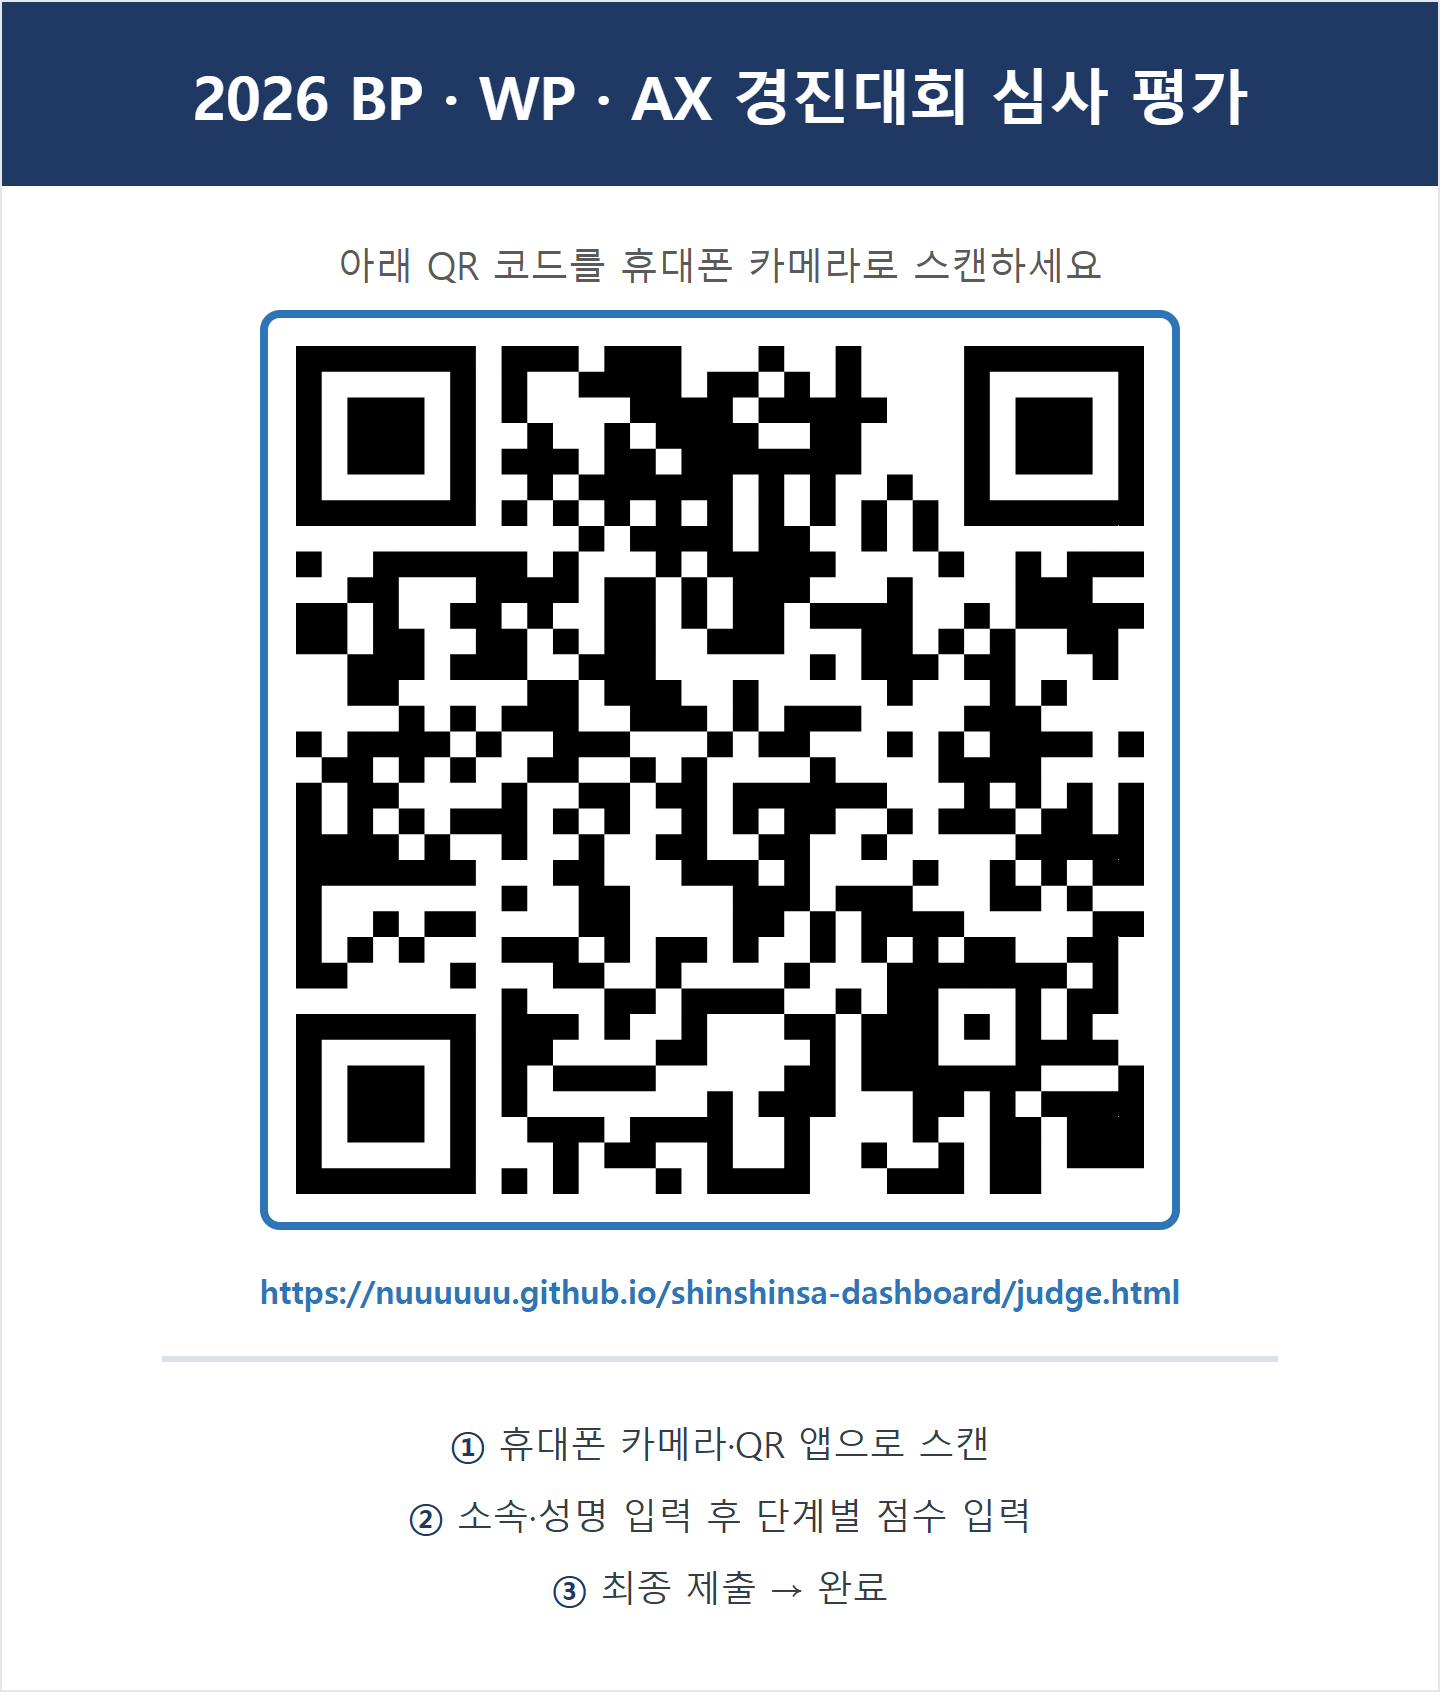
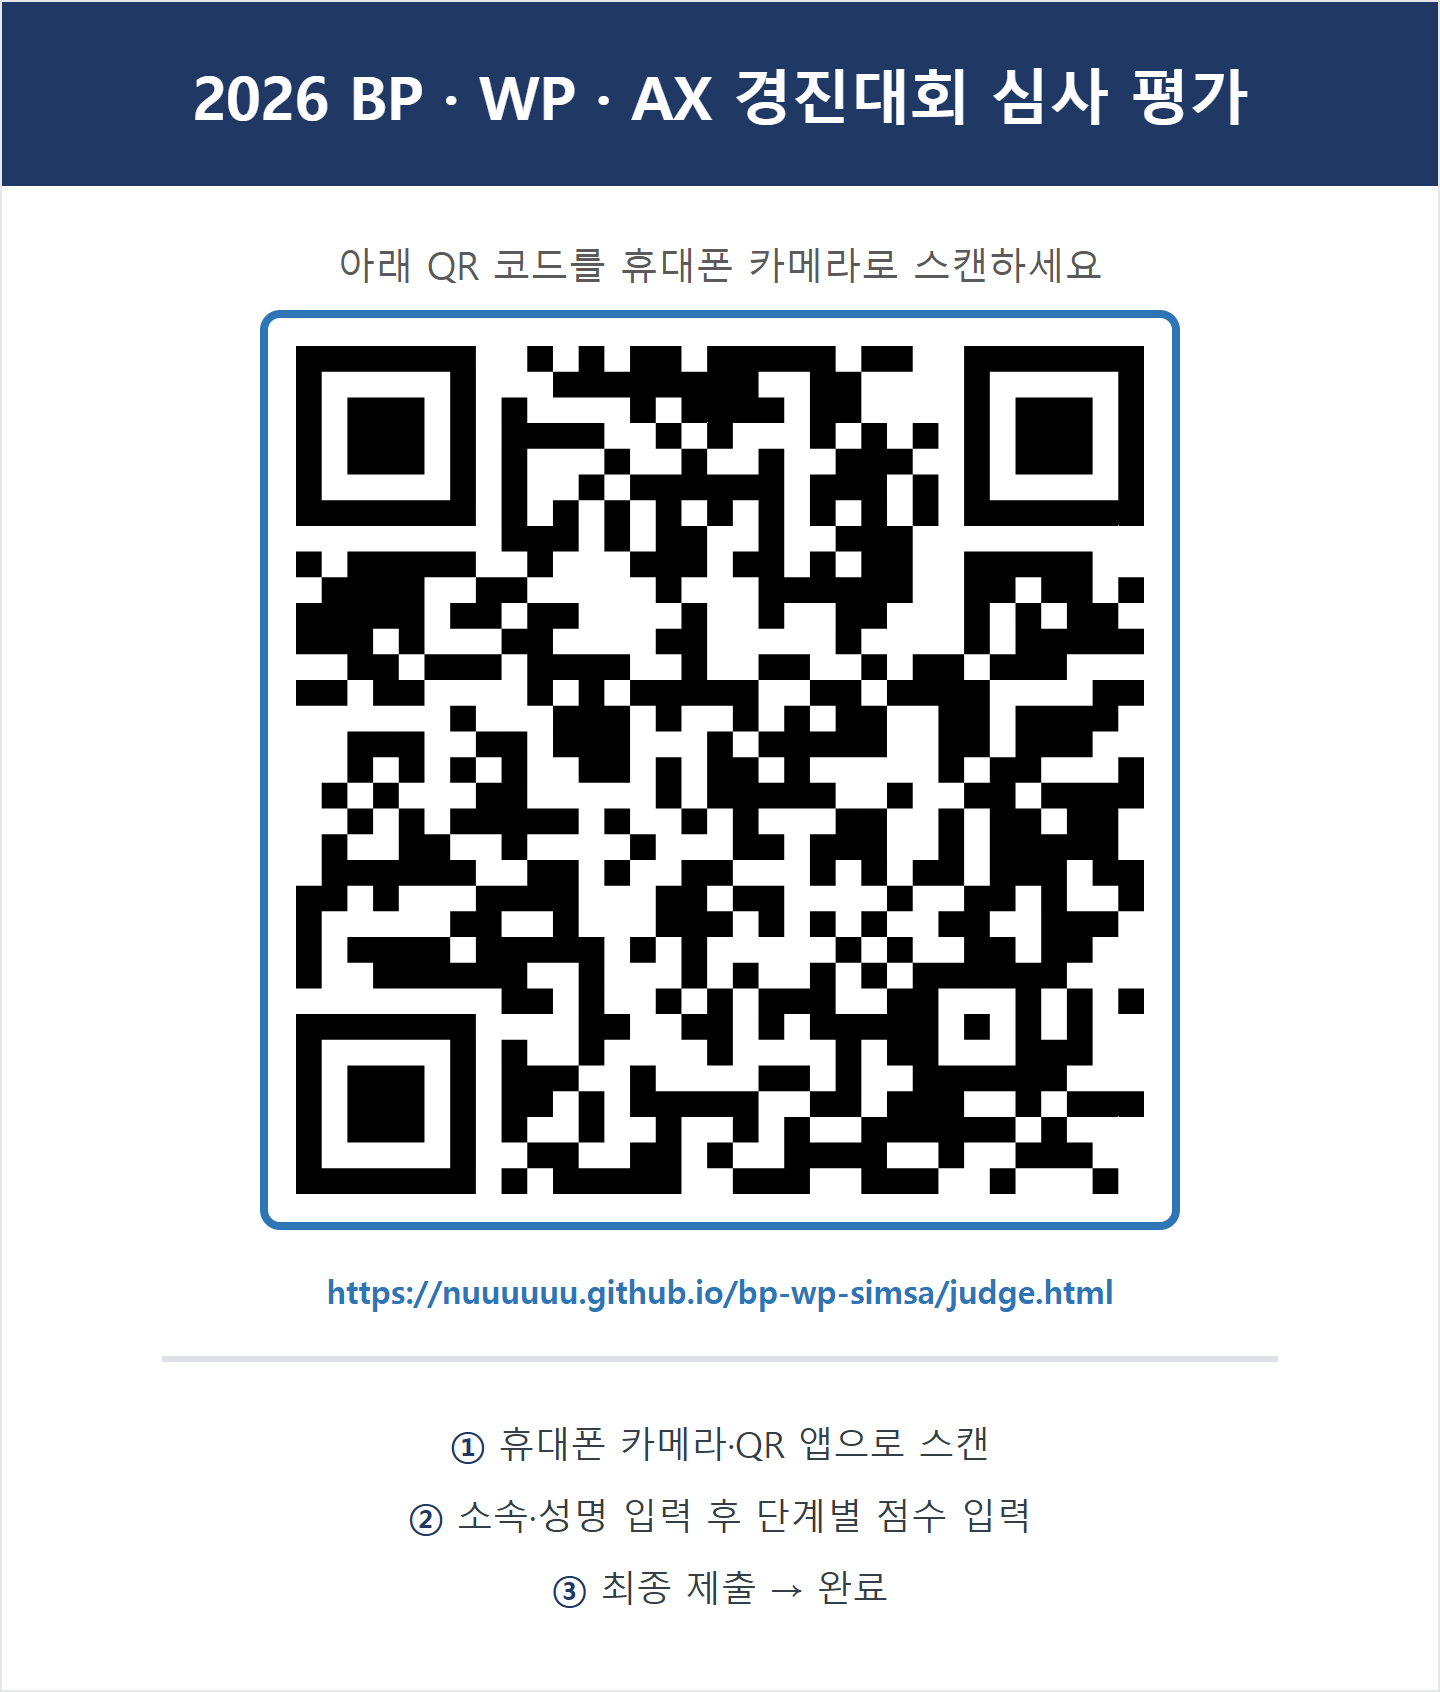
chore: judge 배포 주소를 bp-wp-simsa 레포로 변경 + QR 갱신
config.js judgeUrl을 .../bp-wp-simsa/judge.html로 변경(브리핑 대시보드 레포에서 심사 전용 레포로 분리). QR 안내문·무대 안내 덱 자동 반영. apiUrl(백엔드)는 불변.

Changed region(s): [[0.1875, 0.1844, 0.8125, 0.7069], [0.1875, 0.7376, 0.8125, 0.7991]]

diff --git a/config.js b/config.js
@@ -38,7 +38,7 @@ var CONFIG = {
     AX: [ { rank: 1, prize: "상금 100만원", ttl: "대상" } ]
   },
   apiUrl: "https://script.google.com/macros/s/AKfycbys-XrSmFQu9nY0z5KLZWPSY0Jxq8M-4aOx0t31Ax9LNokE_jtZo2q6rjdTrU7rO1XC/exec",
-  judgeUrl: "https://nuuuuuu.github.io/shinshinsa-dashboard/judge.html",
+  judgeUrl: "https://nuuuuuu.github.io/bp-wp-simsa/judge.html",
   revealOrder: ["WP", "BP", "AX"],
   bgm: { mode: "file", file: "assets/bgm/bgm.m4a", youtubeId: "U34kLXjdw90", volume: 0.5 }
 };
